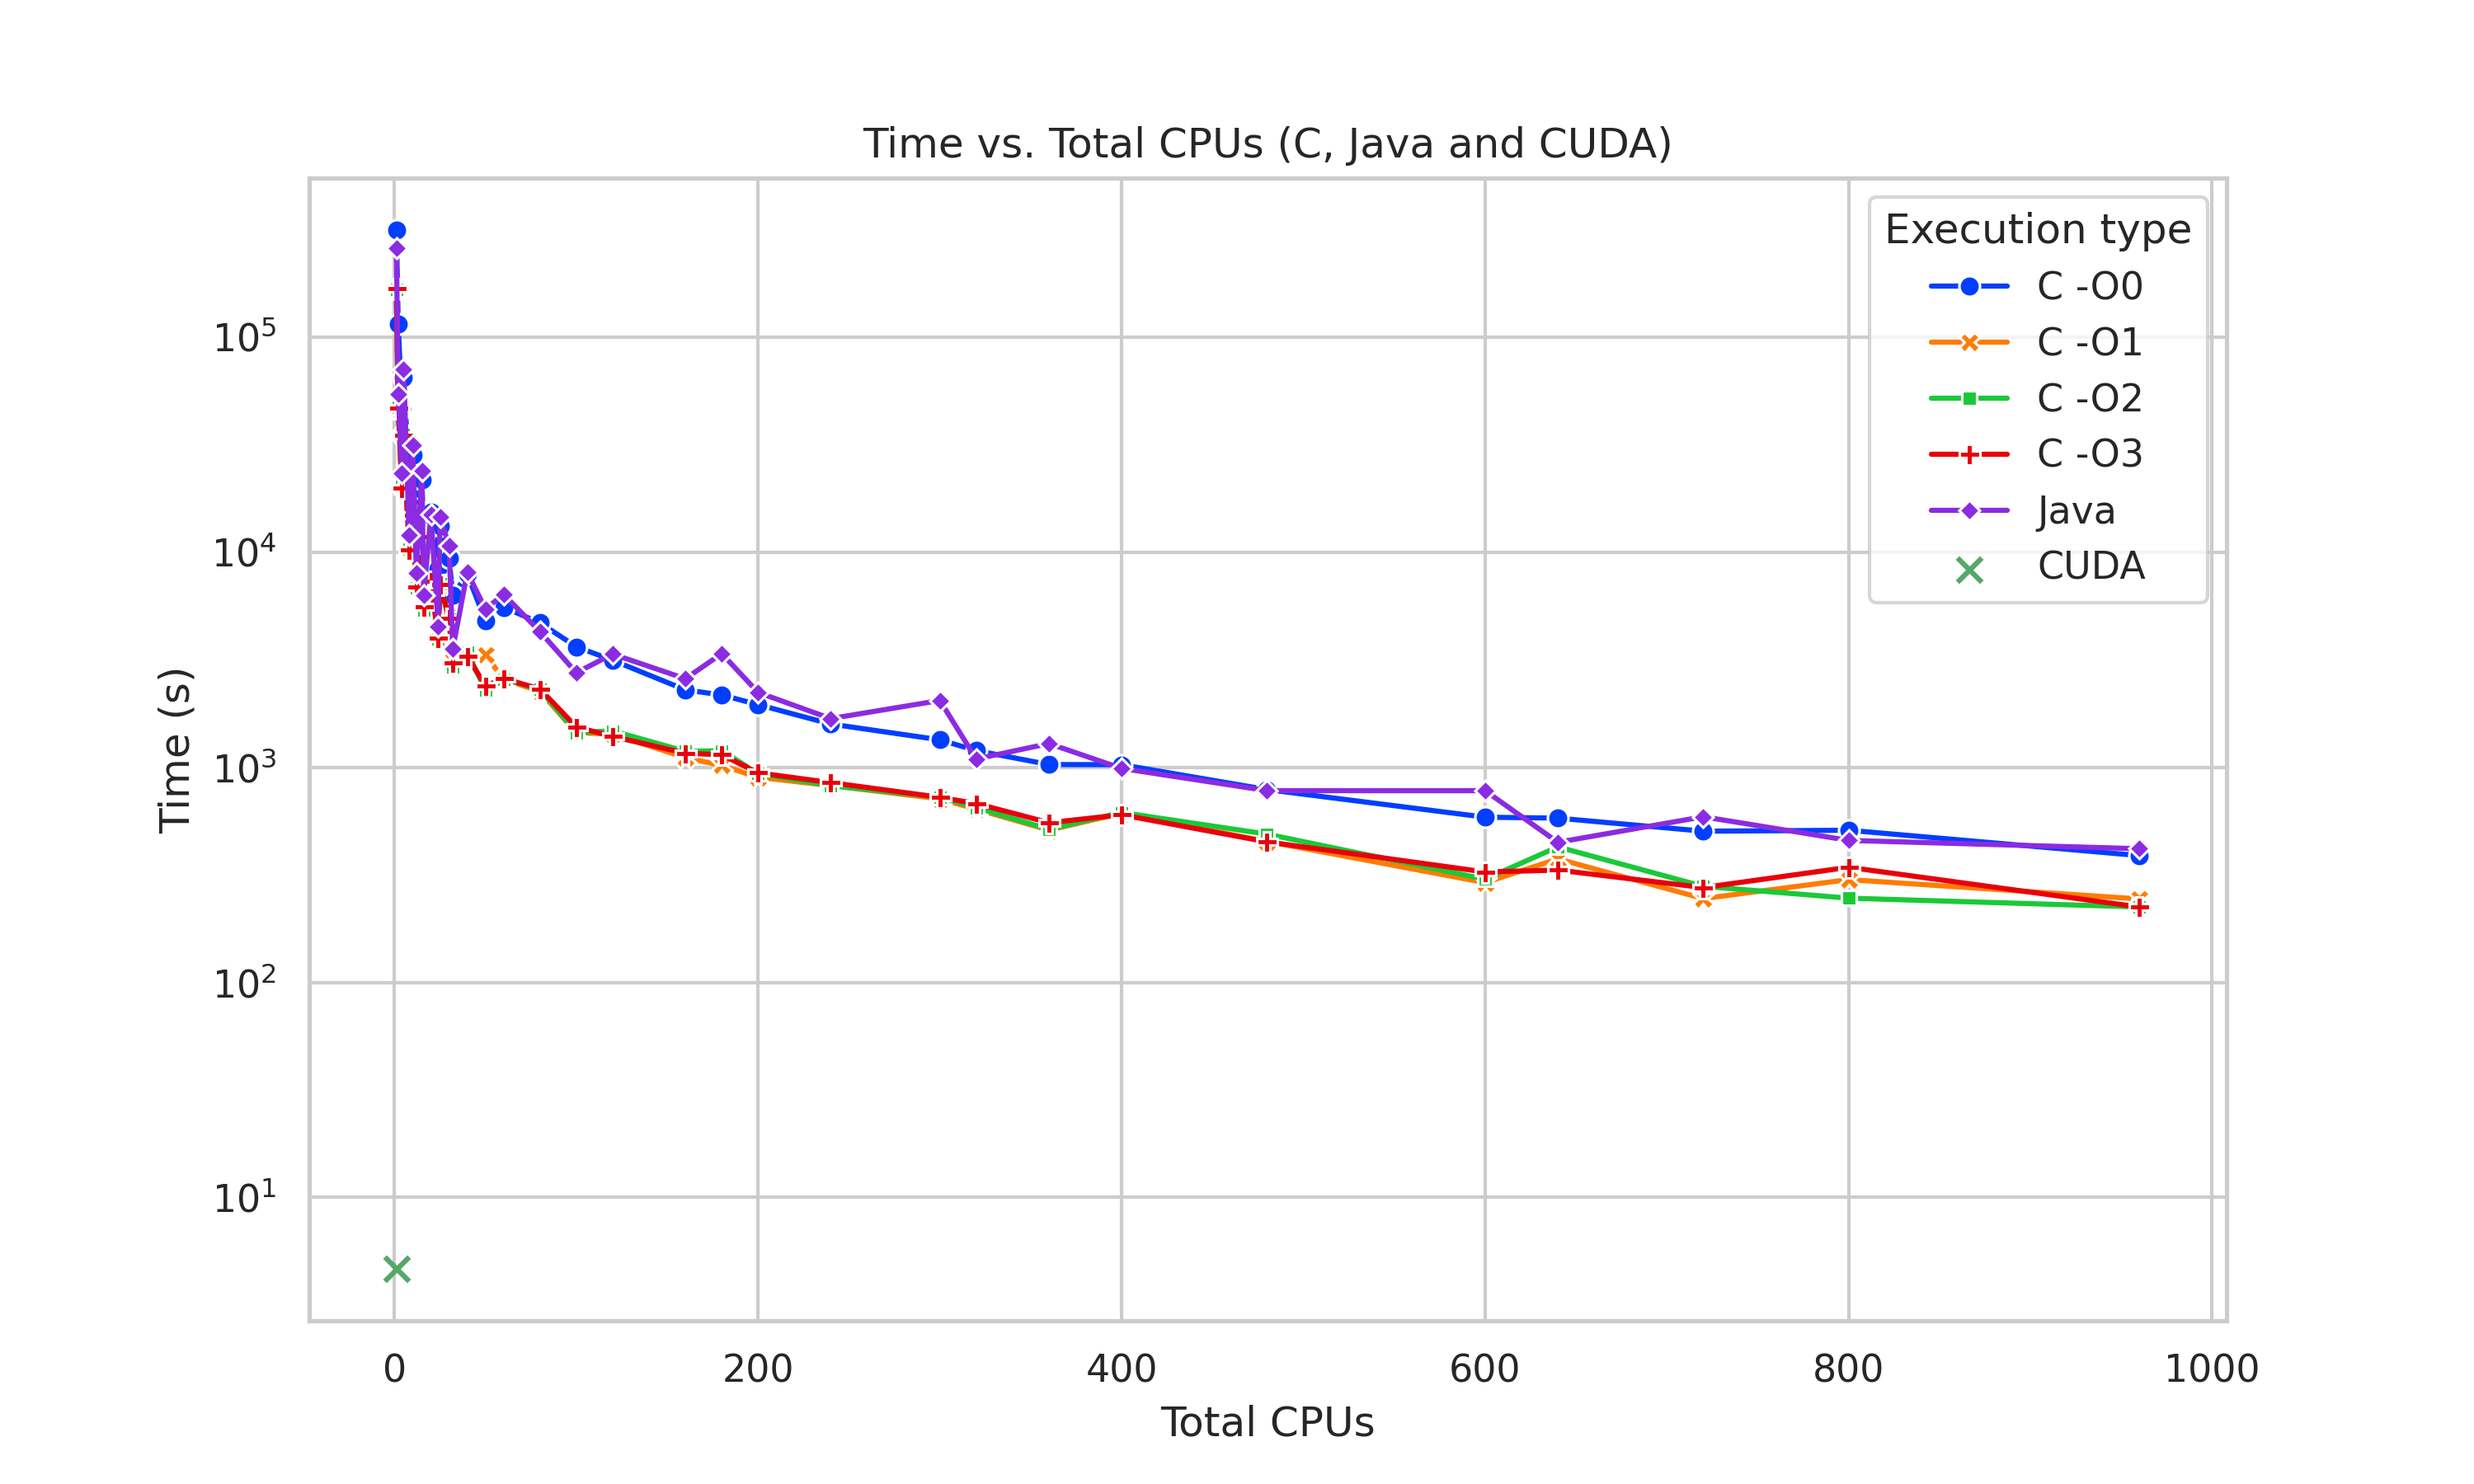
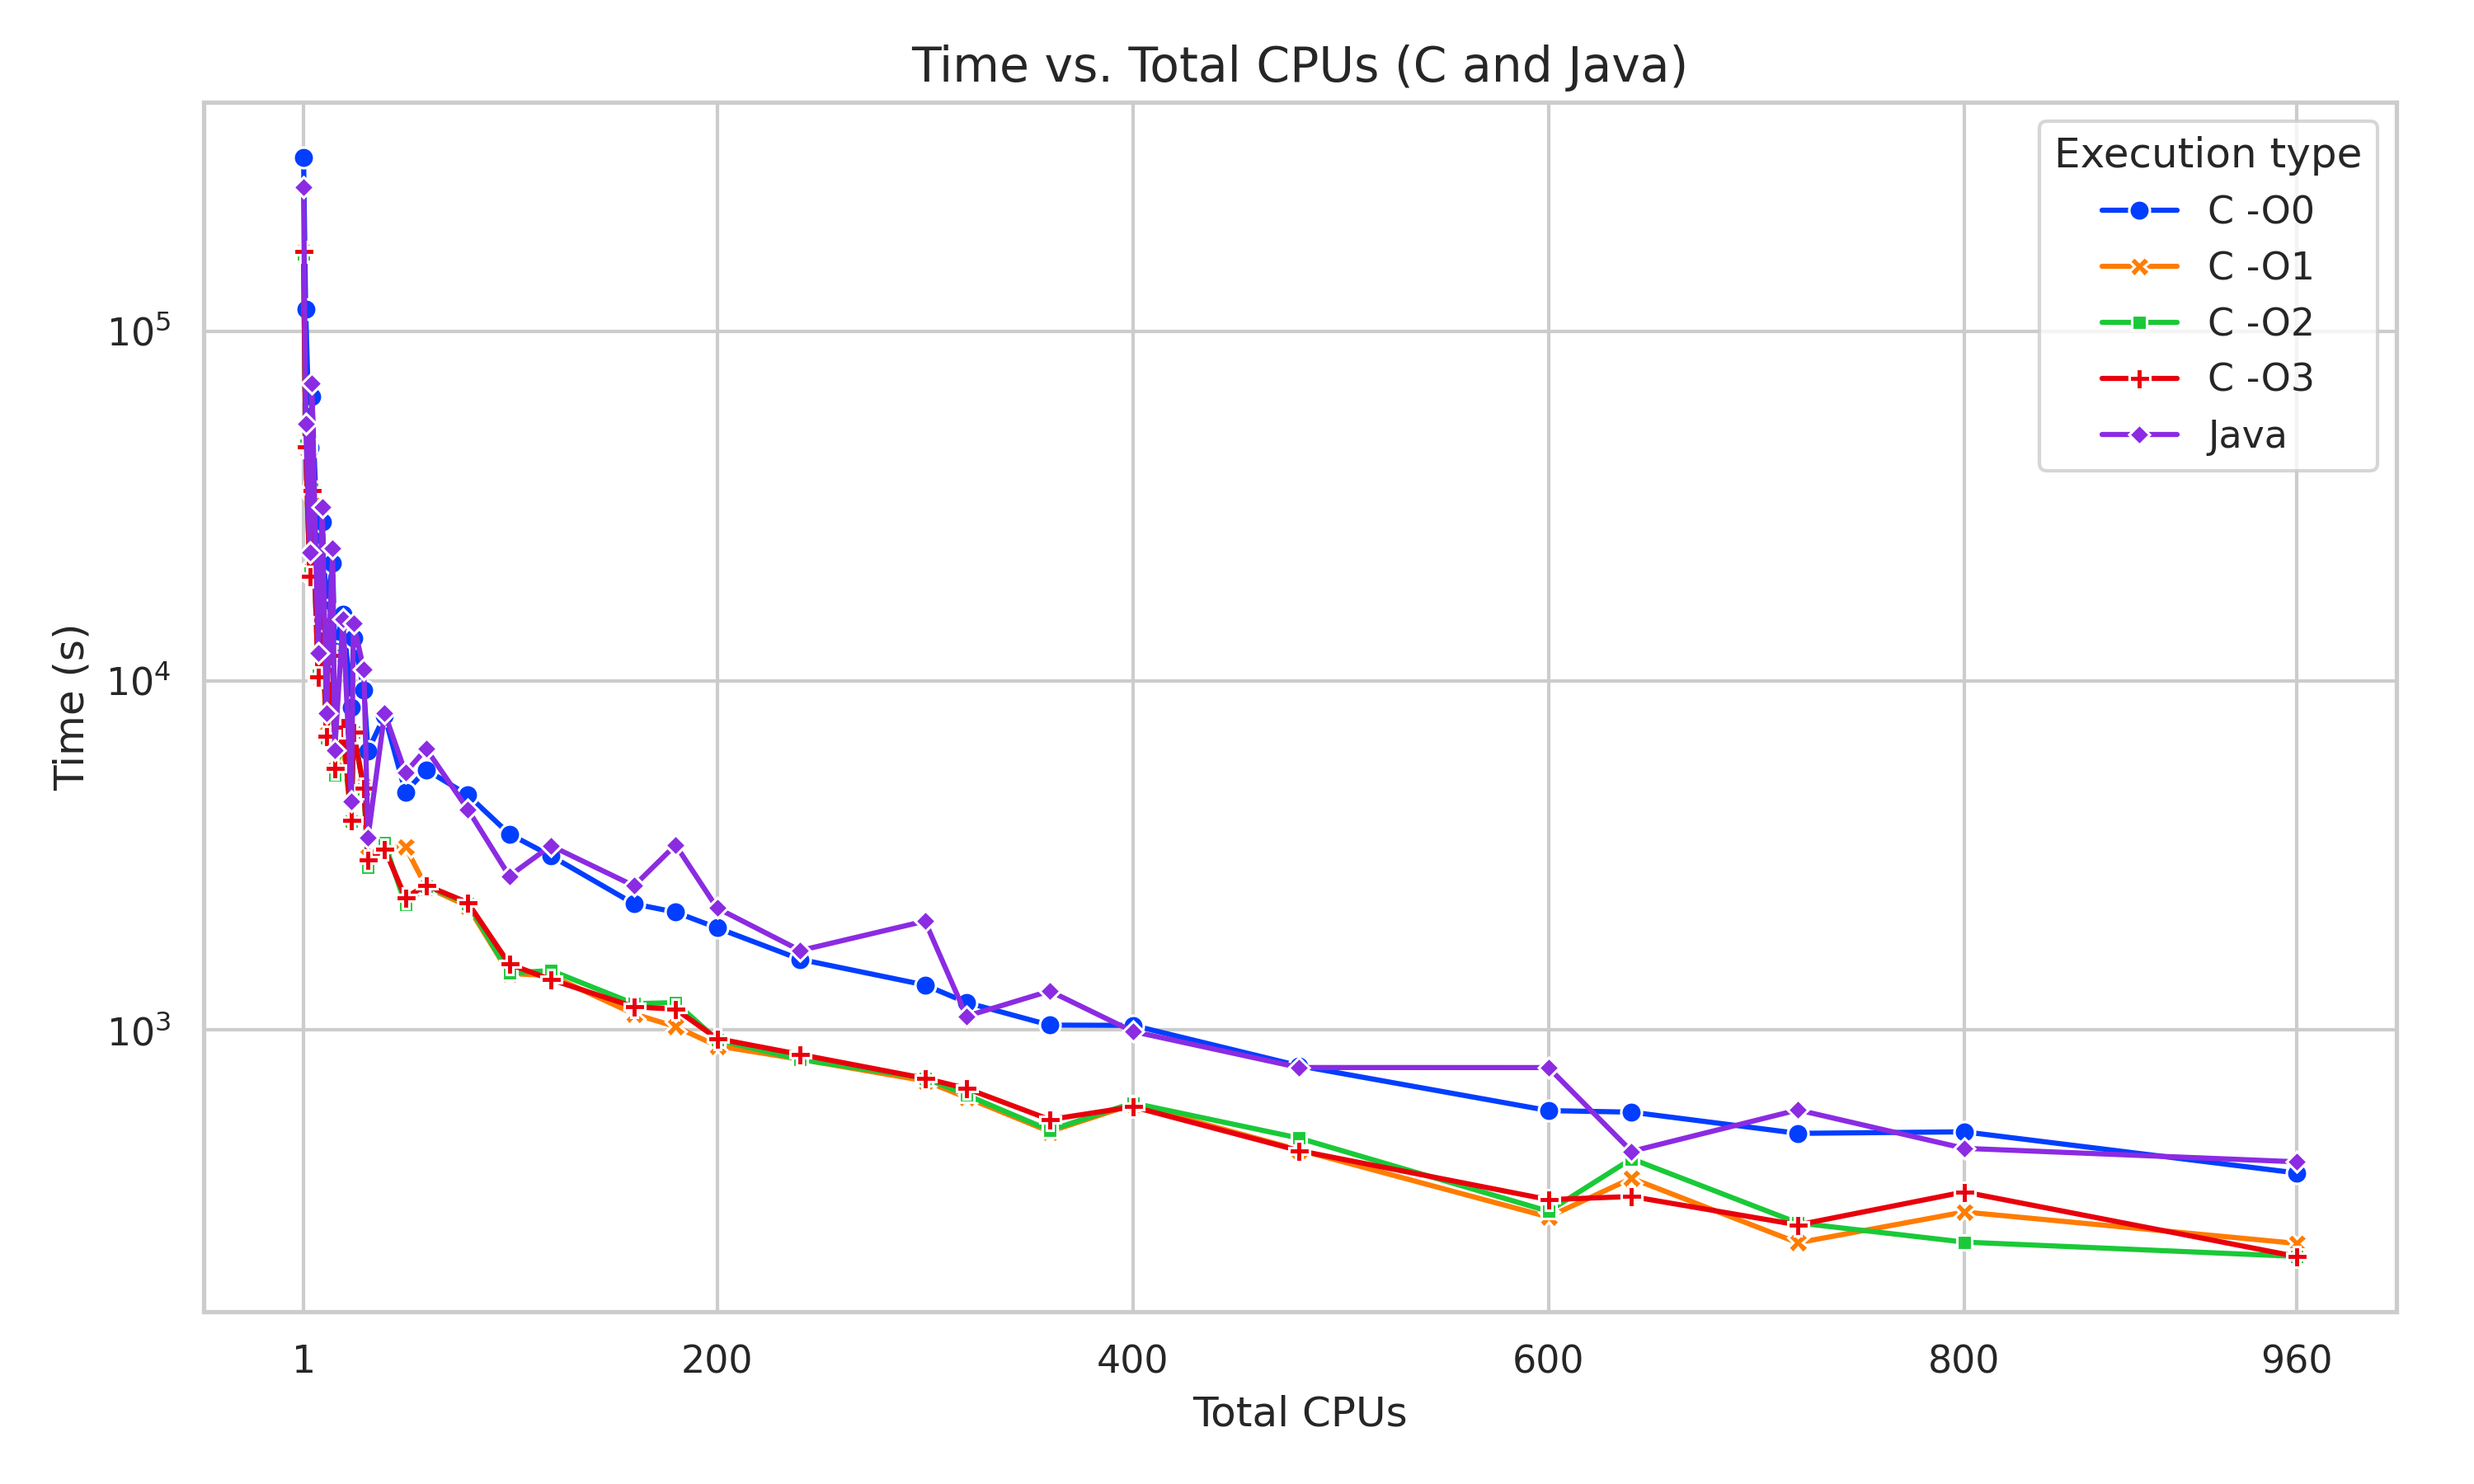
Improved combined graphs

diff --git a/resultados/result_diagrams.py b/resultados/result_diagrams.py
@@ -18,9 +18,10 @@ def plot_graphs_c(data):
     pivot_table = np.log1p(data.pivot_table(values="time", index="workers", columns="threads"))
     plt.figure(figsize=(10, 6))
     sns.heatmap(pivot_table, annot=True, fmt=".2f", cmap="rocket_r")
-    plt.title("Heatmap C (log scale)")
+    plt.title("Heatmap C (log scale)", fontsize=14)
     plt.xlabel("Threads")
     plt.ylabel("Workers")
+    plt.tight_layout()
     plt.savefig("diagrams/c/heatmap_time.png", dpi=300)
     plt.close()
 
@@ -34,9 +35,10 @@ def plot_graphs_java(data):
     pivot_table = np.log1p(data.pivot_table(values="time", index="workers", columns="threads"))
     plt.figure(figsize=(10, 6))
     sns.heatmap(pivot_table, annot=True, fmt=".2f", cmap="rocket_r")
-    plt.title("Heatmap Java (log scale)")
+    plt.title("Heatmap Java (log scale)", fontsize=14)
     plt.xlabel("Threads")
     plt.ylabel("Workers")
+    plt.tight_layout()
     plt.savefig("diagrams/java/heatmap_time.png", dpi=300)
     plt.close()
 
@@ -53,23 +55,48 @@ def plot_graphs_all_combined(c_data, java_data, cuda_data):
     margin_factor = 0.05  # 5% de margen
 
     # Make plots with 2 subplots (left C, right Java)
-    fig, axs = plt.subplots(1, 2, figsize=(20, 6))
+    fig, axs = plt.subplots(2, 2, figsize=(15, 10))
+    fig.tight_layout(pad=5.0)
 
-    # C
-    sns.lineplot(data=c_data, x="threads", y="time", hue="workers", style="workers", markers=True, dashes=False,
-                 palette=custom_palette, linewidth=lw, errorbar=None, ax=axs[0])
-    axs[0].set_title("Time vs. Thread configuration (C)")
-    axs[0].set_xlabel("Threads")
-    axs[0].set_ylabel("Time (s)")
-    axs[0].legend(title="Workers")
+    # C -O0
+    sns.lineplot(data=c_data[c_data["opt_level"] == 0], x="threads", y="time", hue="workers", style="workers", markers=True, dashes=False,
+                 palette=custom_palette, linewidth=lw, errorbar=None, ax=axs[0, 0])
+    axs[0, 0].set_title("Time vs. Thread configuration (C -O0)", fontsize=14)
+    axs[0, 0].set_xlabel("Threads")
+    axs[0, 0].set_ylabel("Time (s)")
+    axs[0, 0].legend(title="Workers")
+
+    # C -O1
+    sns.lineplot(data=c_data[c_data["opt_level"] == 1], x="threads", y="time", hue="workers", style="workers", markers=True, dashes=False,
+                    palette=custom_palette, linewidth=lw, errorbar=None, ax=axs[0, 1])
+    axs[0, 1].set_title("Time vs. Thread configuration (C -O1)", fontsize=14)
+    axs[0, 1].set_xlabel("Threads")
+    axs[0, 1].set_ylabel("Time (s)")
+    axs[0, 1].legend(title="Workers")
+
+    # C -O2
+    sns.lineplot(data=c_data[c_data["opt_level"] == 2], x="threads", y="time", hue="workers", style="workers", markers=True, dashes=False,
+                    palette=custom_palette, linewidth=lw, errorbar=None, ax=axs[1, 0])
+    axs[1, 0].set_title("Time vs. Thread configuration (C -O2)", fontsize=14)
+    axs[1, 0].set_xlabel("Threads")
+    axs[1, 0].set_ylabel("Time (s)")
+    axs[1, 0].legend(title="Workers")
+
+    # C -O3
+    sns.lineplot(data=c_data[c_data["opt_level"] == 3], x="threads", y="time", hue="workers", style="workers", markers=True, dashes=False,
+                    palette=custom_palette, linewidth=lw, errorbar=None, ax=axs[1, 1])
+    axs[1, 1].set_title("Time vs. Thread configuration (C -O3)", fontsize=14)
+    axs[1, 1].set_xlabel("Threads")
+    axs[1, 1].set_ylabel("Time (s)")
+    axs[1, 1].legend(title="Workers")
 
     # Java
-    sns.lineplot(data=java_data, x="threads", y="time", hue="workers", style="workers", markers=True, dashes=False,
-                 palette=custom_palette, linewidth=lw, errorbar=None, ax=axs[1])
-    axs[1].set_title("Time vs. Thread configuration (Java)")
-    axs[1].set_xlabel("Threads")
-    axs[1].set_ylabel("Time (s)")
-    axs[1].legend(title="Workers")
+    # sns.lineplot(data=java_data, x="threads", y="time", hue="workers", style="workers", markers=True, dashes=False,
+    #              palette=custom_palette, linewidth=lw, errorbar=None, ax=axs[1, 1])
+    # axs[1, 1].set_title("Time vs. Thread configuration (Java)", fontsize=14)
+    # axs[1, 1].set_xlabel("Threads")
+    # axs[1, 1].set_ylabel("Time (s)")
+    # axs[1, 1].legend(title="Workers")
 
     # Ajustar ejes iguales con margen
     x_min = min(c_data["threads"].min(), java_data["threads"].min())
@@ -82,19 +109,51 @@ def plot_graphs_all_combined(c_data, java_data, cuda_data):
     x_ticks = c_data["threads"].unique()
 
     for ax in axs:
-        ax.set_xlim(x_min - x_range * margin_factor, x_max + x_range * margin_factor)
-        ax.set_ylim(y_min - y_range * margin_factor, y_max + y_range * margin_factor)
-        ax.set_xticks(x_ticks)
+        for a in ax:
+            a.set_xlim(x_min - x_range * margin_factor, x_max + x_range * margin_factor)
+            a.set_ylim(y_min - y_range * margin_factor, y_max + y_range * margin_factor)
+            a.set_xticks(x_ticks)
 
     plt.savefig("diagrams/combined/time_vs_threads.png", dpi=300)
     plt.close()
 
     # Single plot with Java data appended to the C data (adding a new column to the java one: opt_level = "Java")
     # Prepend "C" to the opt_level column of the C data
-    java_data["opt_level"] = "Java"
     c_data.sort_values(by="opt_level", inplace=True)
-    c_data["opt_level"] = "C -O" + c_data["opt_level"].astype(str)
-    data_ = [c_data, java_data]
+    c_data_ = c_data.copy()
+    c_data_["opt_level"] = "C -O" + c_data_["opt_level"].astype(str)
+    data_ = [c_data_, java_data]
+    combined_data = pd.concat(data_, ignore_index=True)
+    fastest_time_cuda = cuda_data["elapsed_time"].min() / 1000  # Convert to seconds
+
+    plt.figure(figsize=(10, 6))
+    sns.lineplot(data=combined_data, x="total_cpus", y="time", hue="opt_level", style="opt_level", markers=True, dashes=False,
+                 palette=custom_palette, linewidth=lw, errorbar=None)
+    # plt.scatter(x=1, y=fastest_time_cuda, color="g", label="CUDA", s=50, marker="x")
+    plt.title("Time vs. Total CPUs (C and Java)", fontsize=14)
+    plt.xlabel("Total CPUs")
+    plt.ylabel("Time (s)")
+    plt.legend(title="Execution type")
+    plt.yscale("log")
+    plt.tight_layout()
+    plt.xticks([1, 200, 400, 600, 800, 960])
+    plt.savefig("diagrams/combined/time_vs_total_cpus_log_combined.png", dpi=300)
+    plt.close()
+
+
+def plot_graph_all_combined_one_c_optimization(c_data, java_data, cuda_data):
+    if not os.path.exists("diagrams/combined"):
+        os.makedirs("diagrams/combined")
+
+    custom_palette = sns.color_palette("bright")
+    lw = 1.5
+
+    optimization = 3
+    c_data.sort_values(by="opt_level", inplace=True)
+    c_data_ = c_data.copy()
+    c_data_ = c_data_[c_data_["opt_level"] == optimization]
+    c_data_["opt_level"] = f"C -O{optimization}"
+    data_ = [c_data_, java_data]
     combined_data = pd.concat(data_, ignore_index=True)
     fastest_time_cuda = cuda_data["elapsed_time"].min() / 1000  # Convert to seconds
 
@@ -102,12 +161,14 @@ def plot_graphs_all_combined(c_data, java_data, cuda_data):
     sns.lineplot(data=combined_data, x="total_cpus", y="time", hue="opt_level", style="opt_level", markers=True, dashes=False,
                  palette=custom_palette, linewidth=lw, errorbar=None)
     plt.scatter(x=1, y=fastest_time_cuda, color="g", label="CUDA", s=50, marker="x")
-    plt.title("Time vs. Total CPUs (C, Java and CUDA)")
+    plt.title("Time vs. Total CPUs (C, Java and CUDA)", fontsize=14)
     plt.xlabel("Total CPUs")
     plt.ylabel("Time (s)")
     plt.legend(title="Execution type")
     plt.yscale("log")
-    plt.savefig("diagrams/combined/time_vs_total_cpus_log_combined.png", dpi=300)
+    plt.tight_layout()
+    plt.xticks([1, 200, 400, 600, 800, 960])
+    plt.savefig(f"diagrams/combined/time_vs_total_cpus_log_combined_o{optimization}.png", dpi=300)
     plt.close()
 
 def c_speedup(data):
@@ -117,15 +178,18 @@ def c_speedup(data):
     sns.set_theme(style="whitegrid")
 
     # Calcular speedup respecto a la ejecución secuencial (total_cpus = 1, opt_level = 0)
-    sequential_time = data[(data["total_cpus"] == 1) & (data["opt_level"] == "C -O0")]["time"].min()
+    sequential_time = data[(data["total_cpus"] == 1) & (data["opt_level"] == 0)]["time"].min()
     data["speedup"] = sequential_time / data["time"]
+    data_copy = data.copy()
+    data_copy["opt_level"] = "-O" + data_copy["opt_level"].astype(str)
     plt.figure(figsize=(10, 6))
-    sns.lineplot(data=data, x="total_cpus", y="speedup", hue="opt_level", style="opt_level", markers=True, dashes=False,
+    sns.lineplot(data=data_copy, x="total_cpus", y="speedup", hue="opt_level", style="opt_level", markers=True, dashes=False,
                  palette="bright", linewidth=1.5, errorbar=None)
-    plt.title("Speedup vs. Total CPUs (C)")
+    plt.title("Speedup vs. Total CPUs (C)", fontsize=14)
     plt.xlabel("Total CPUs")
     plt.ylabel("Speedup")
     plt.legend(title="Optimization level")
+    plt.tight_layout()
     plt.savefig("diagrams/c/speedup_vs_total_cpus.png", dpi=300)
     plt.close()
 
@@ -136,8 +200,11 @@ if __name__ == "__main__":
     data_java = pd.read_csv("datos/execution_configs_java.csv")
     data_cuda = pd.read_csv("datos/execution_configs_cuda.csv")
 
+    data_java["opt_level"] = "Java"
+
     # Crear gráficos
     plot_graphs_c(data_c)
     plot_graphs_java(data_java)
     plot_graphs_all_combined(data_c, data_java, data_cuda)
+    plot_graph_all_combined_one_c_optimization(data_c, data_java, data_cuda)
     c_speedup(data_c)
